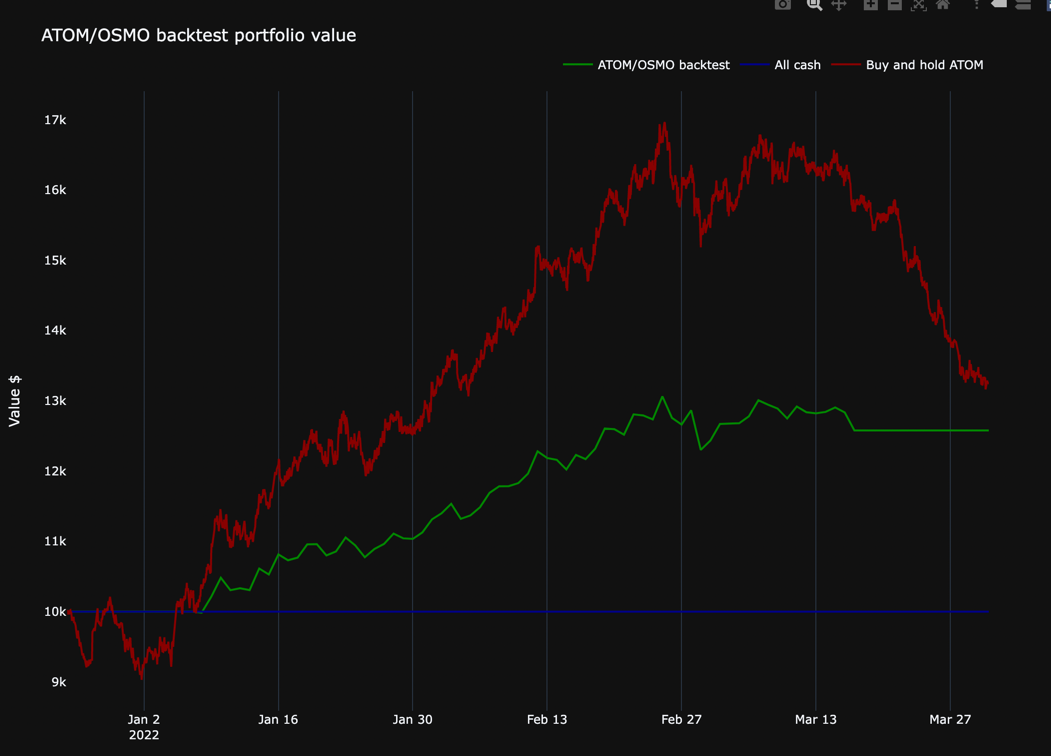
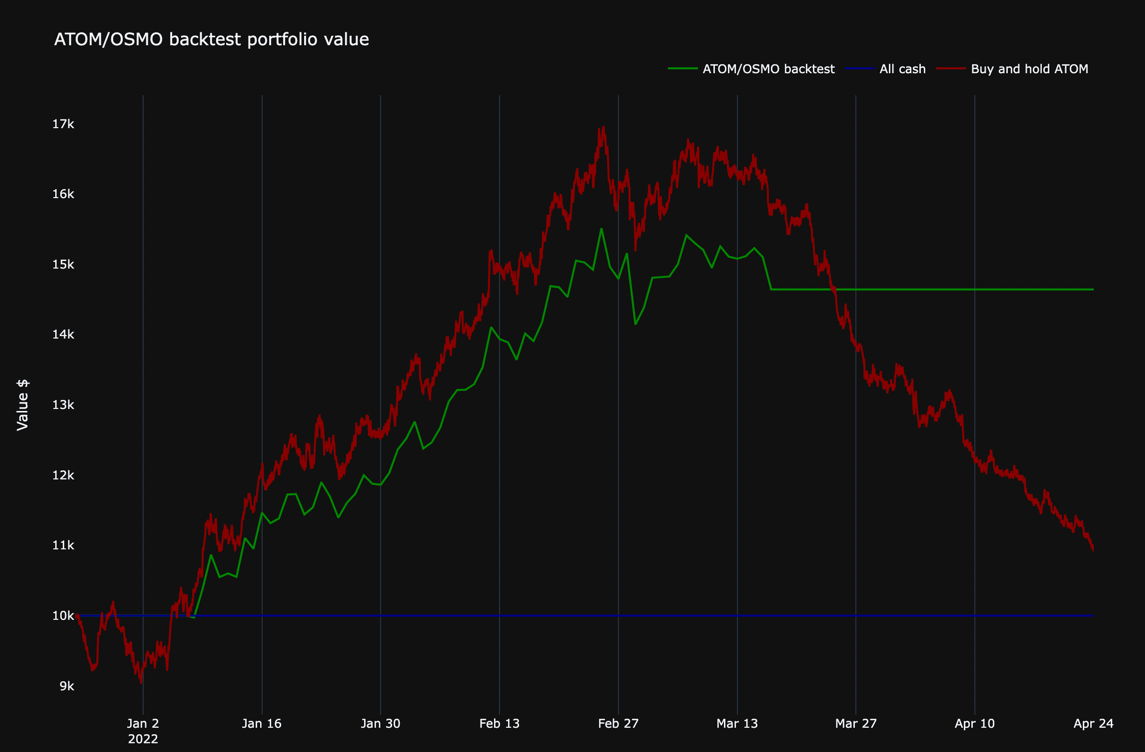
Tex fixes

diff --git a/frontsie/counter-dapp/frontend/pages/strategy.tsx b/frontsie/counter-dapp/frontend/pages/strategy.tsx
@@ -335,21 +335,16 @@ const Strategy: NextPage = () => {
                       <tbody>
                           <tr>
                               <th>Backtesting period</th>
-                              <td>2021-12-25 - 2022-07-29</td>
+                              <td>2021-12-25 - 2022-04-29 (68 days)</td>
                           </tr>
 
                           <tr>
-                              <th>Annualised profit</th>
-                              <td>10%</td>
+                              <th>Annualised return</th>
+                              <td>68% (in OSMO)</td>
                           </tr>
 
                           <tr>
-                              <th>Maximum drawdown</th>
-                              <td>Not available yet</td>
-                          </tr>
-
-                          <tr>
-                              <th>Trade win rate</th>
+                              <th>Trade g rate</th>
                               <td>100%</td>
                           </tr>
                       </tbody>

diff --git a/README.md b/README.md
@@ -47,7 +47,7 @@ This will generate 600 MB `swaps.csv`.
 
 ### Create and examine OHLCV candle data
 
-Use [OHLCV Jupyter Notebook](hackatom_2022/analyse.ipynb).
+Use [Osmosis market data feed generation Jupyter Notebook](hackatom_2022/analyse.ipynb).
 
 ### Run backtests 
 
